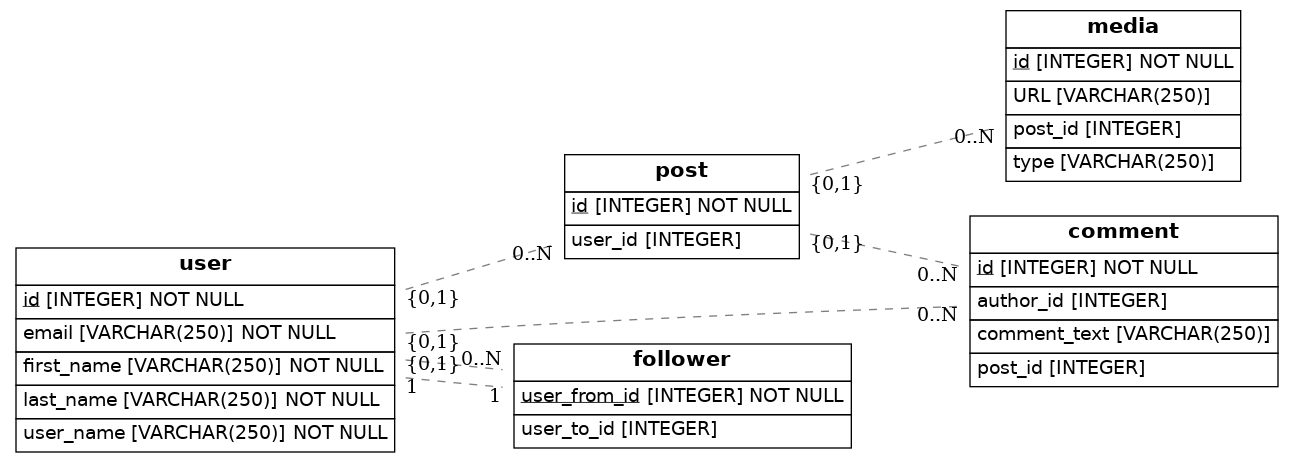
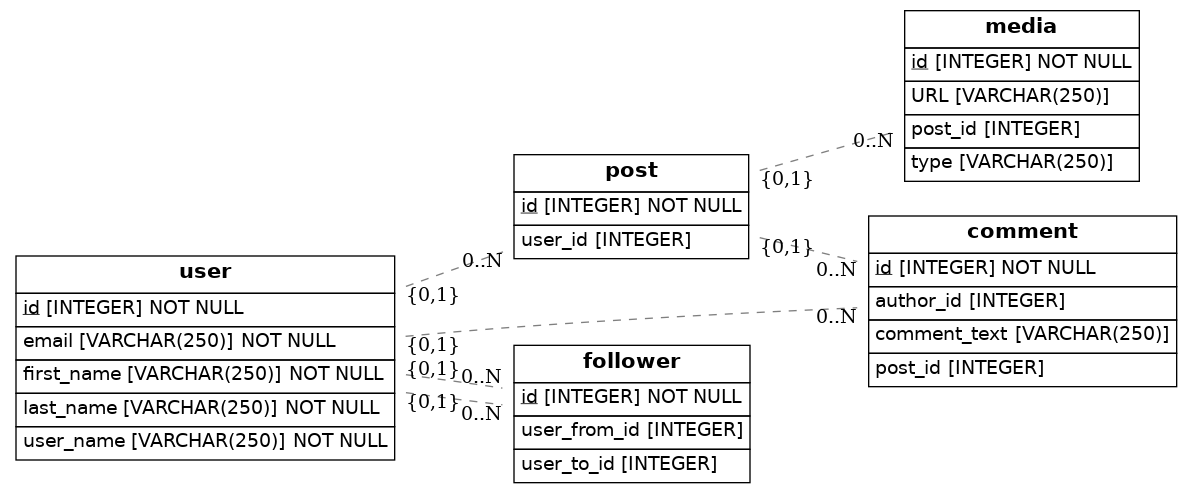
updated

Changed region(s): [[0.0, 0.5152, 0.6829, 1.0], [0.3725, 0.303, 0.9933, 0.8485], [0.7139, 0.0, 0.9622, 0.3939]]

diff --git a/src/models.py b/src/models.py
@@ -42,7 +42,8 @@ class Comment(Base):
    
 class Follower(Base):
     __tablename__ = 'follower'
-    user_from_id = Column(Integer, ForeignKey('user.id'), primary_key=True)
+    id = Column(Integer, primary_key=True)
+    user_from_id = Column(Integer, ForeignKey('user.id'))
     user_to_id= Column(Integer, ForeignKey('user.id'))
     user = relationship(User)
 
